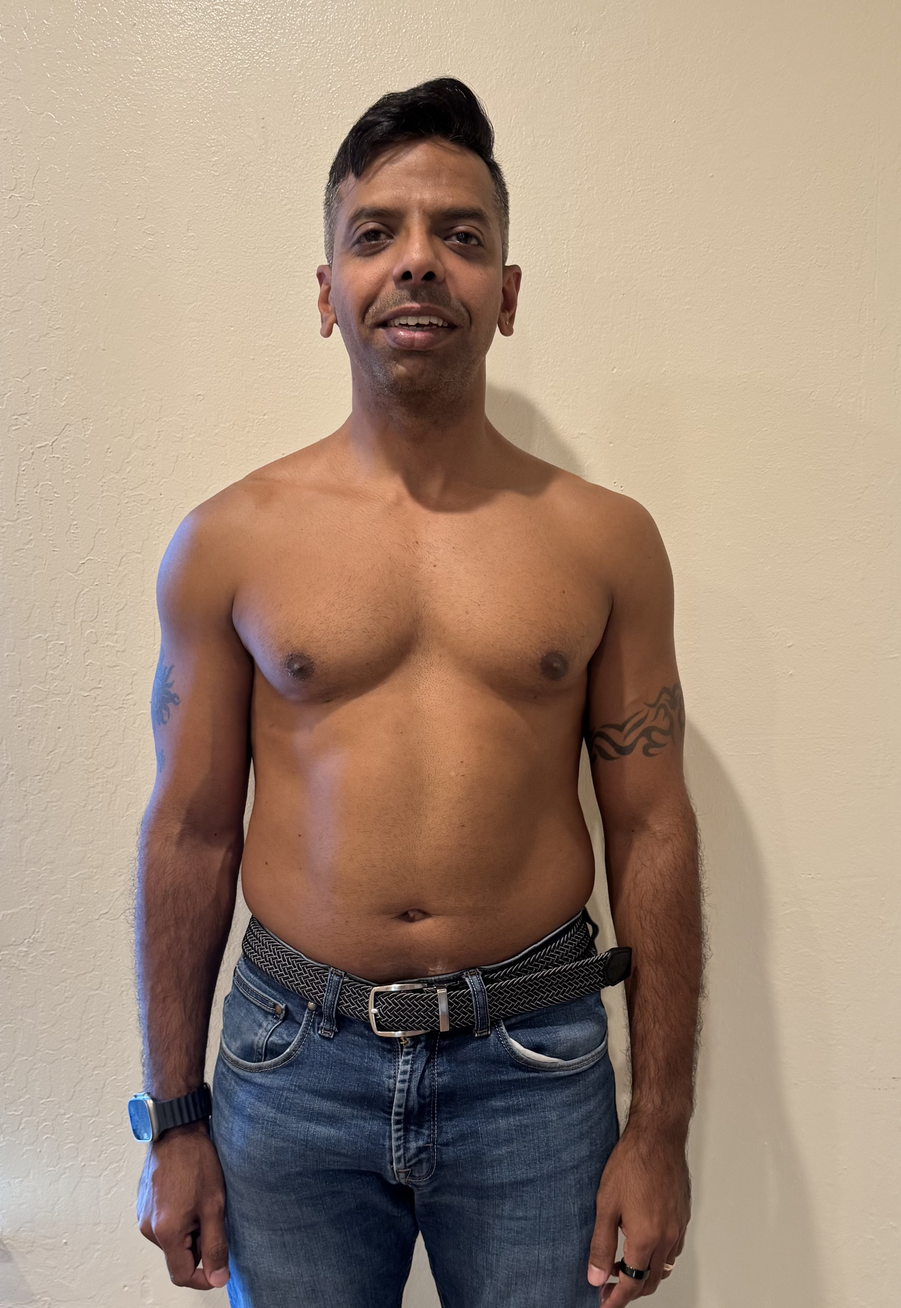
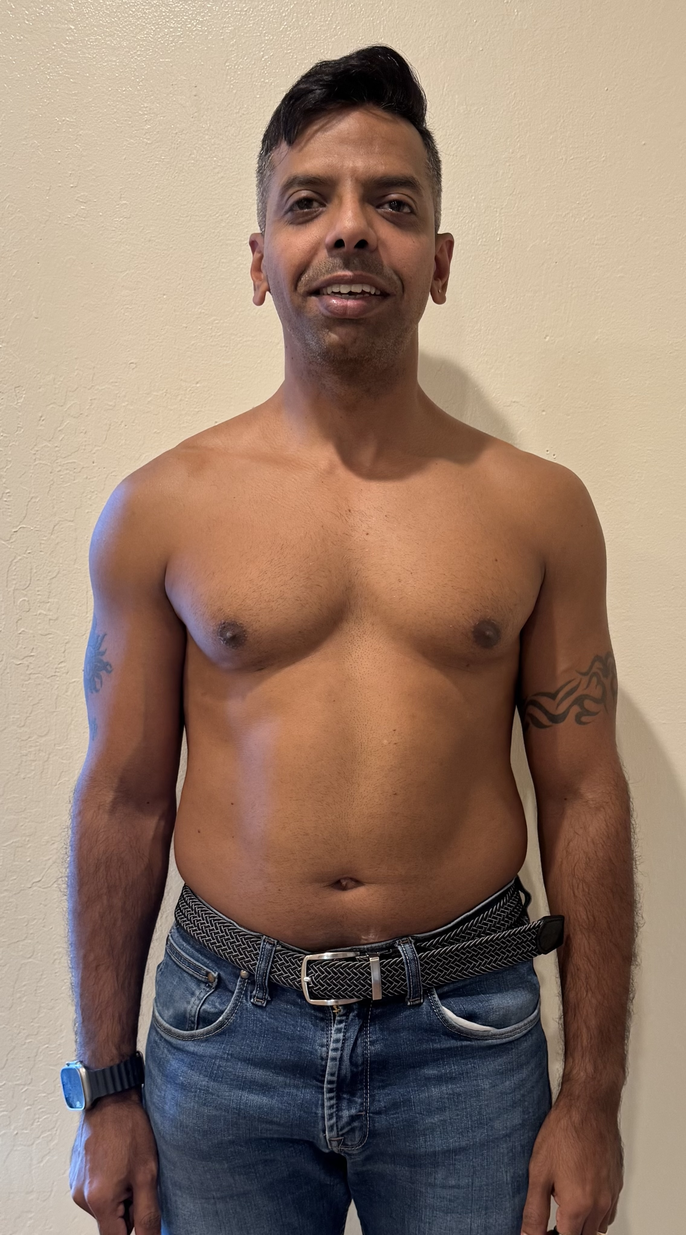
Fix physique photos to fill box without white space

diff --git a/_projects/hybrid_athlete.md b/_projects/hybrid_athlete.md
@@ -135,8 +135,8 @@ permalink: /projects/hybrid_athlete/
 .ha-month-col img {
   width: 100%;
   height: 700px;
-  object-fit: contain;
-  background: var(--global-bg-color, #f8f9fa);
+  object-fit: cover;
+  object-position: top center;
   border-radius: 8px;
   border: 1px solid var(--global-divider-color, #ddd);
   display: block;
